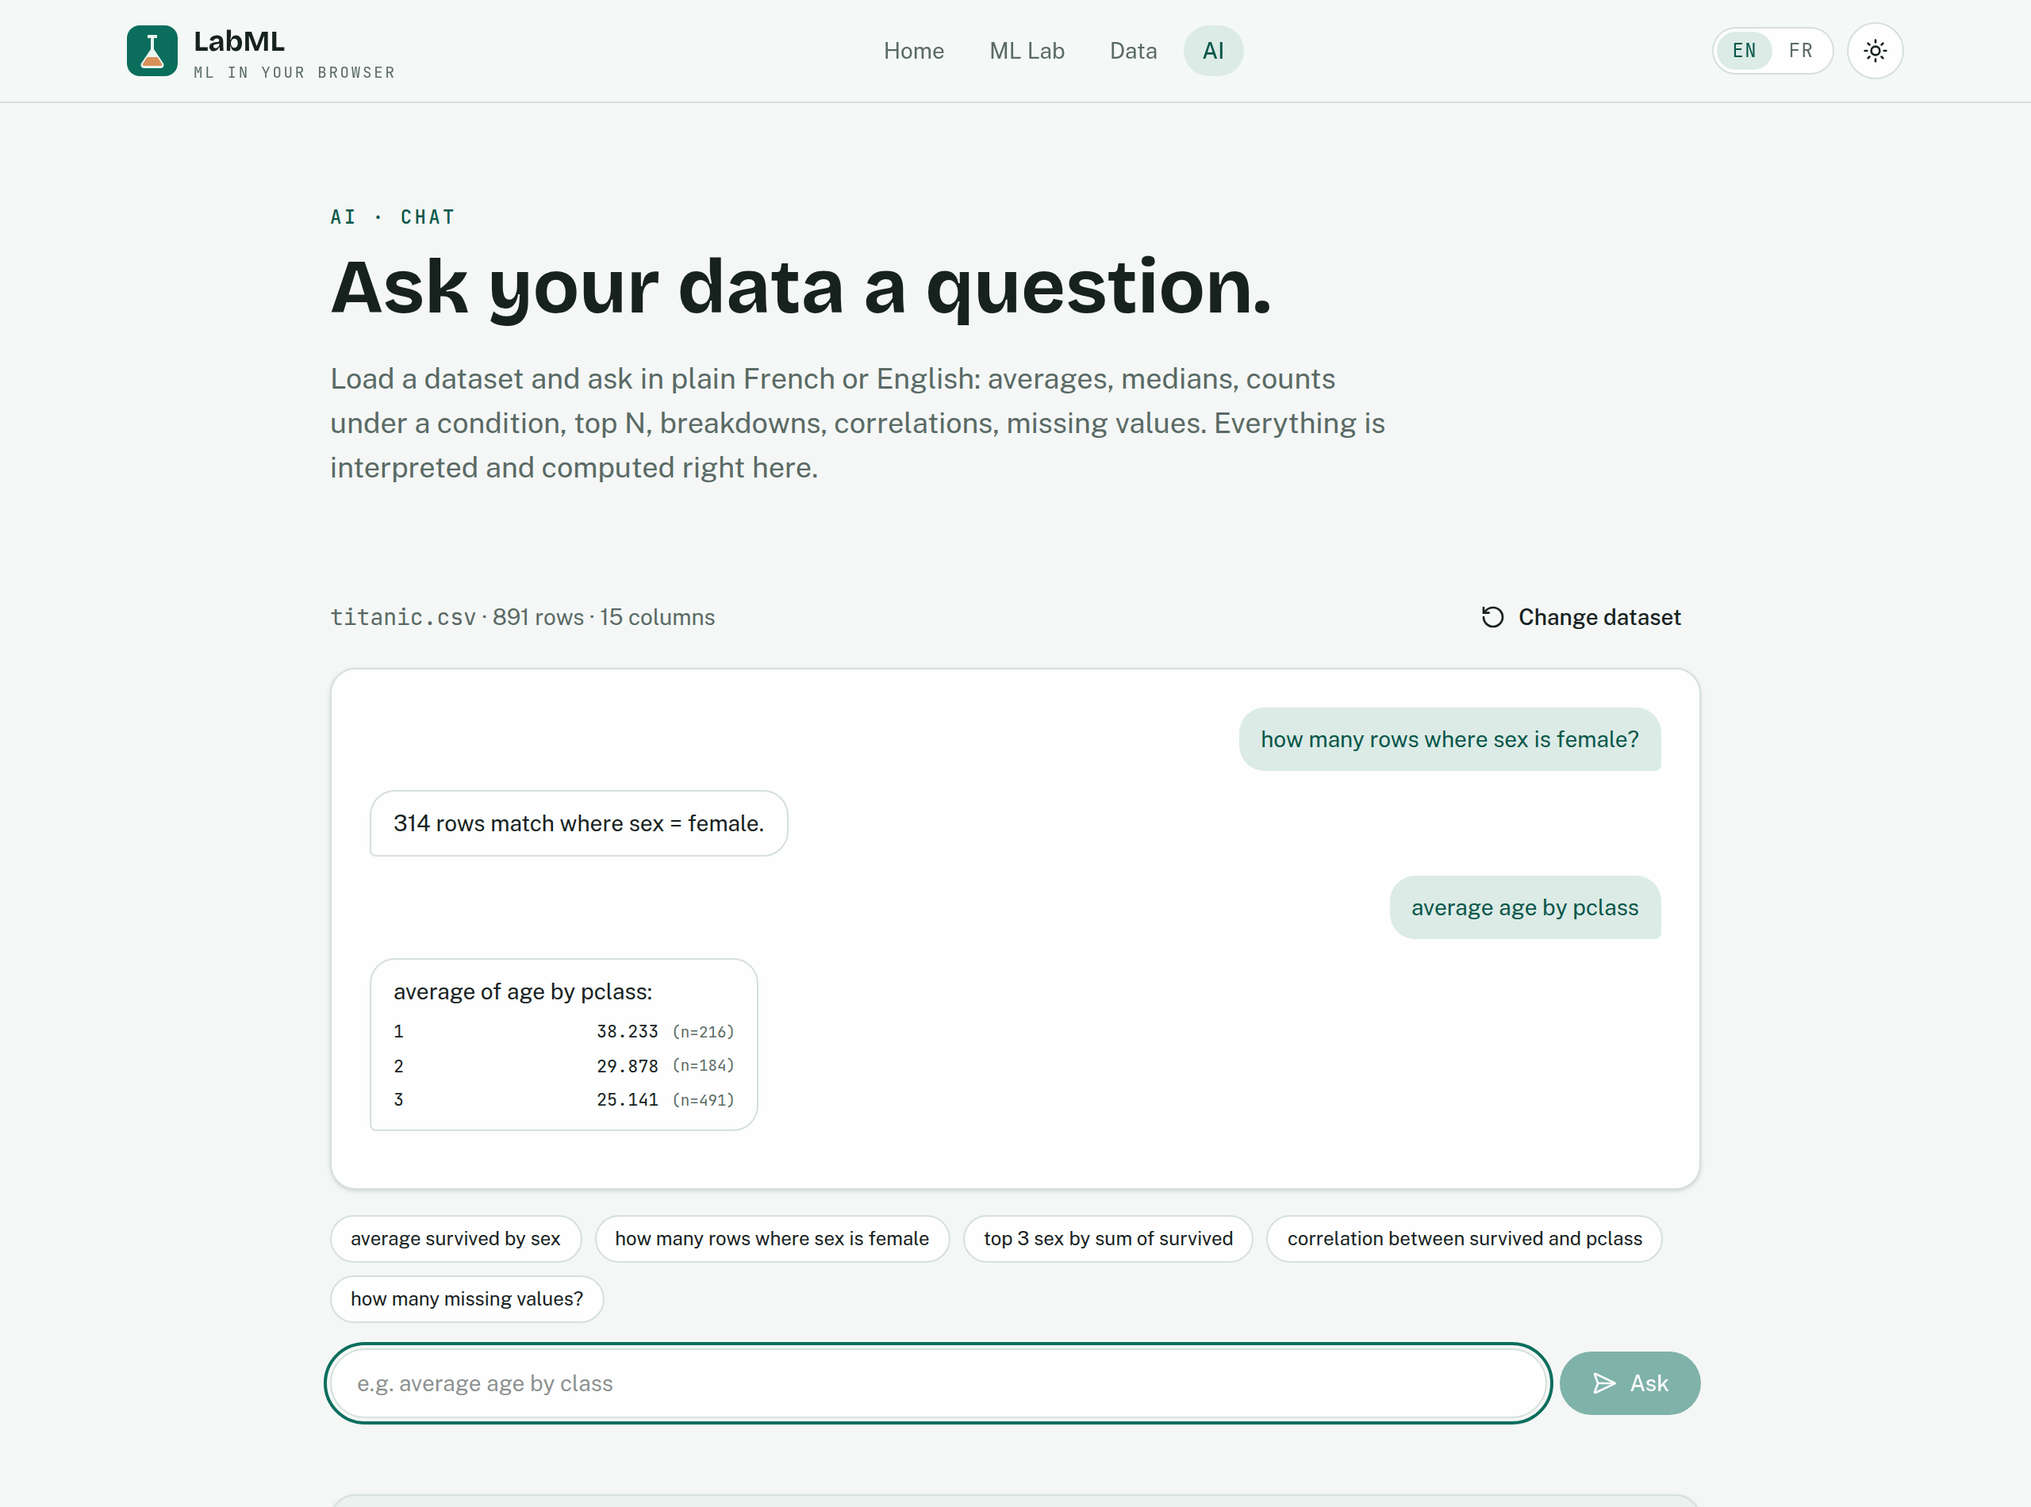
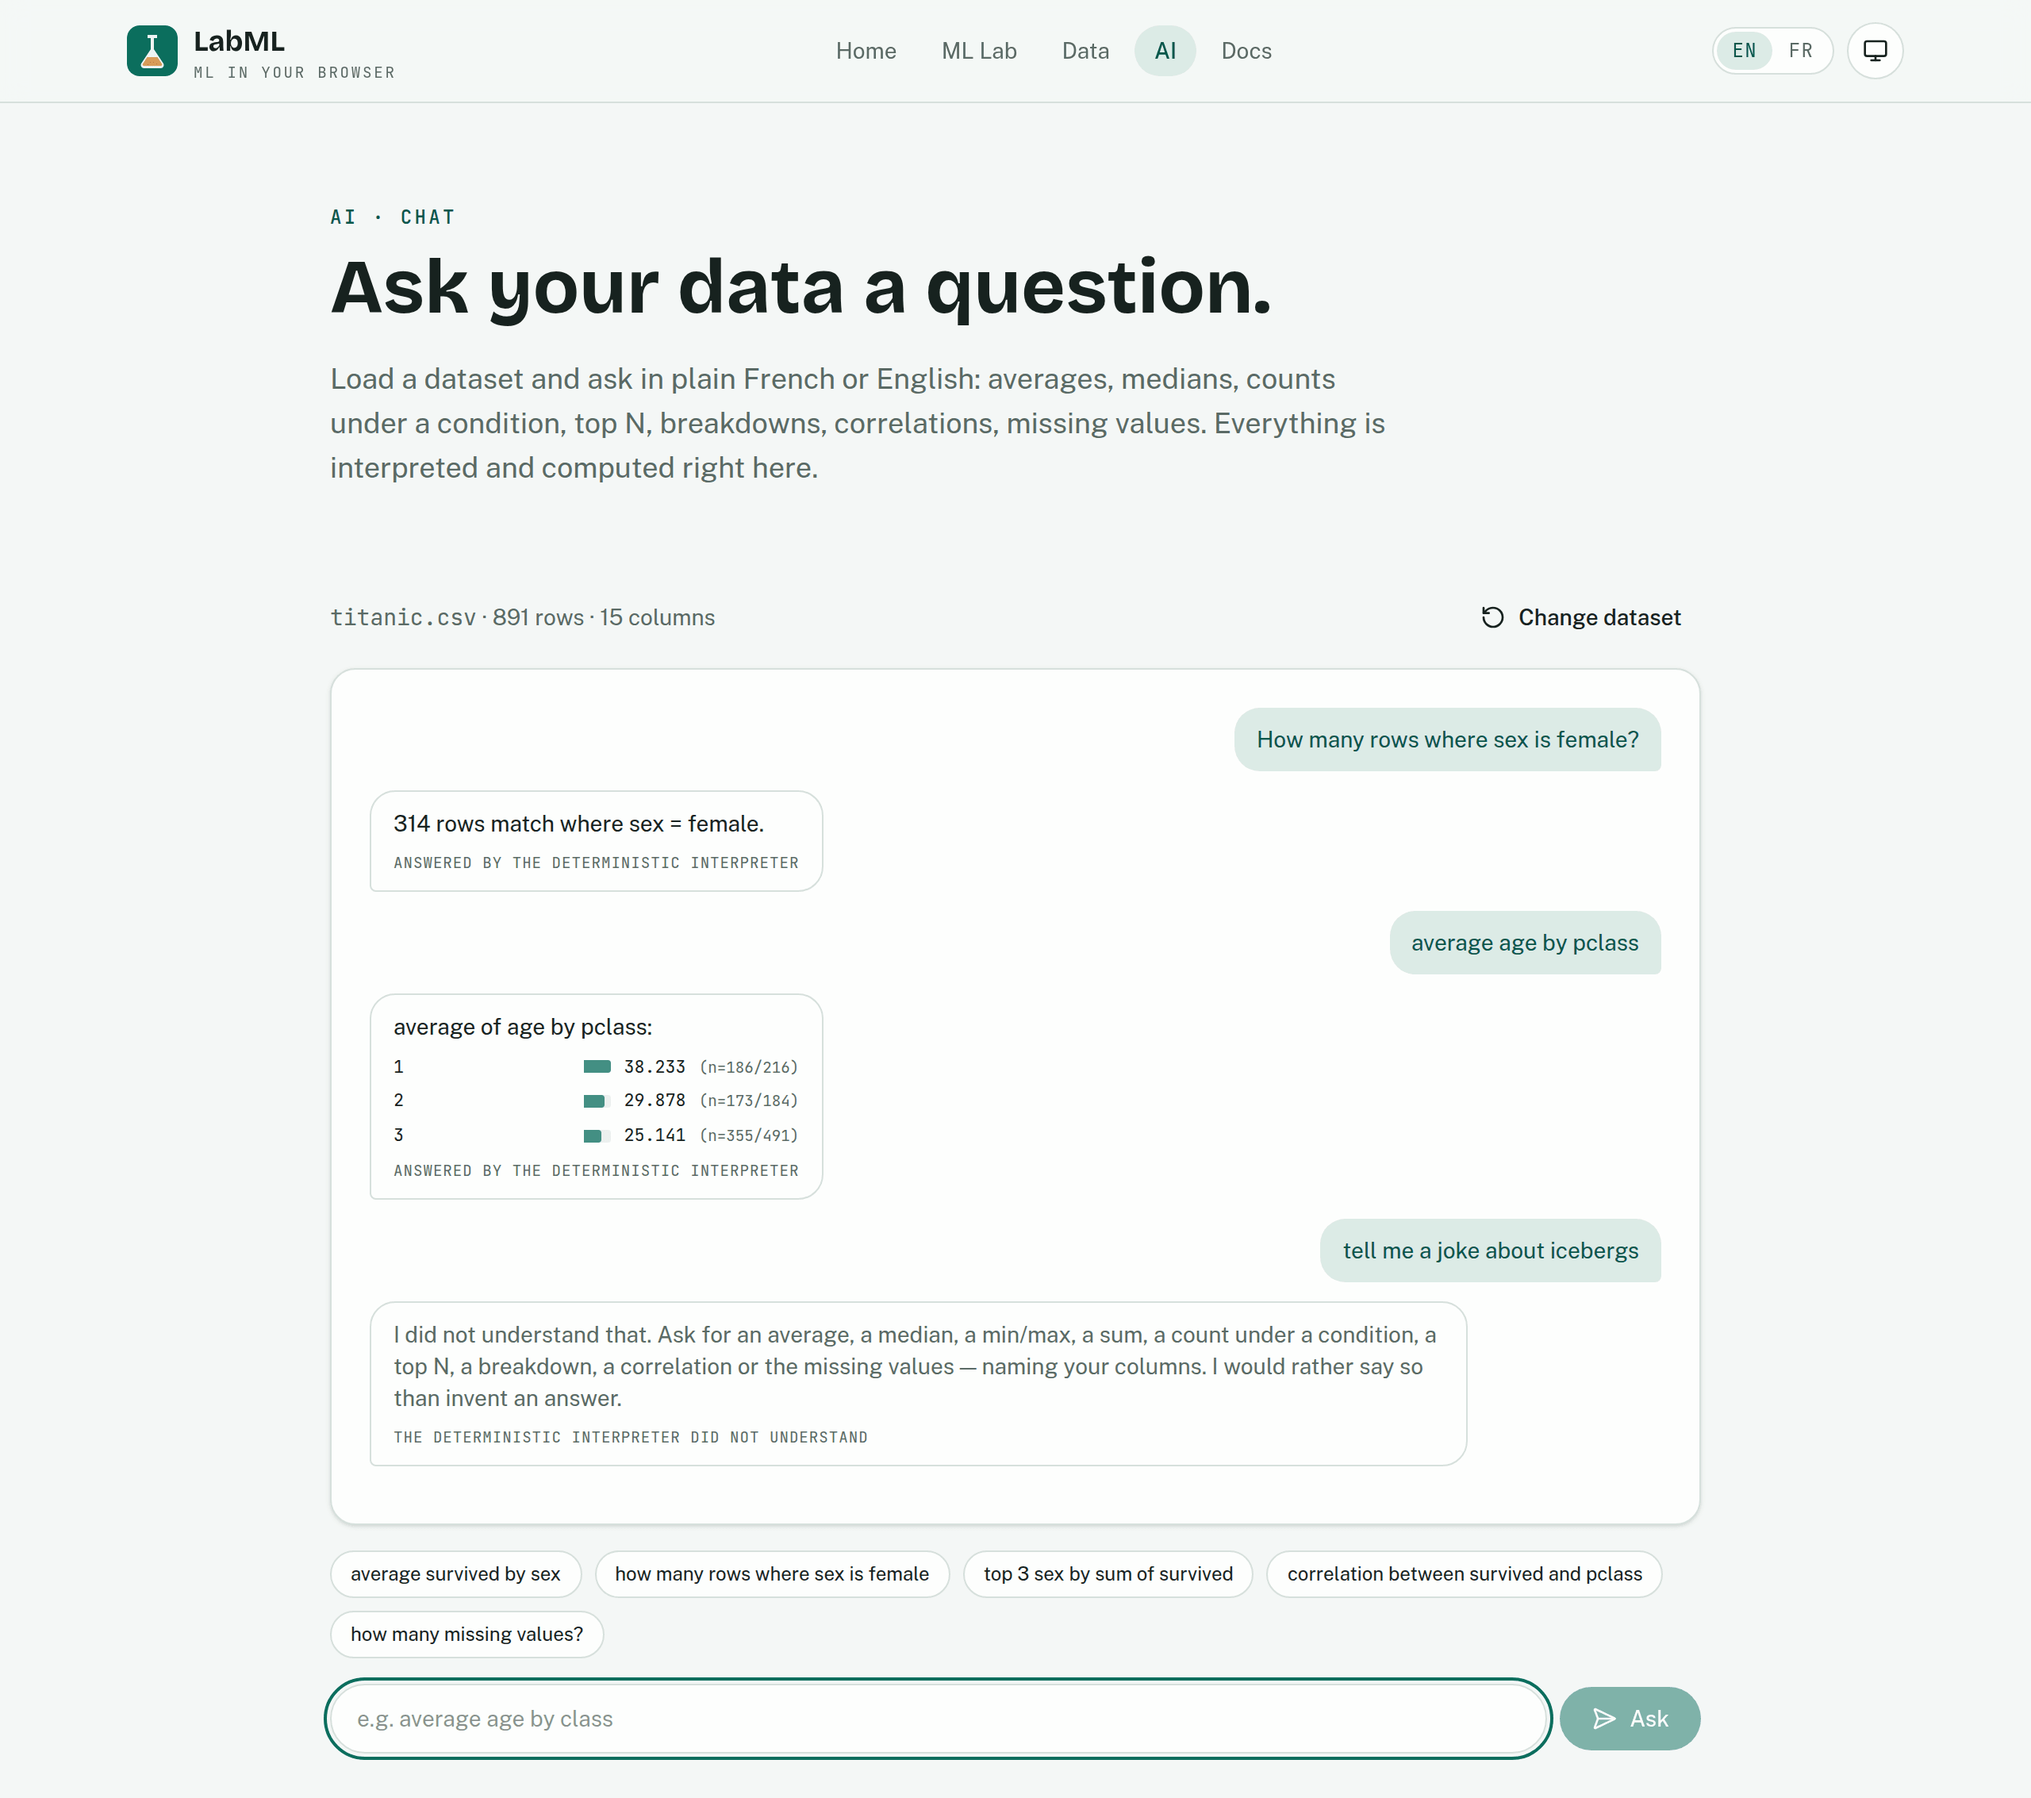
portfolio LabML : la capture du chat montre aussi le refus
Le texte des deux articles insiste sur le refus — « quand il ne comprend
pas, il le dit » — mais la figure ne montrait que deux réponses. Elle montre
maintenant les trois tours : le comptage, la moyenne par classe, et la
demande de blague que l'interpréteur refuse.

Deux choses en profitent au passage, parce que la capture date d'avant :
chaque réponse porte désormais le badge du moteur qui l'a produite, et le
refus porte le sien — « l'interpréteur déterministe n'a pas compris » —
qui ne prétend pas être une réponse.

Remplacement, pas ajout : l'article garde neuf figures et sa vidéo. Les
fichiers sont même plus légers qu'avant malgré une image plus haute
(220→110 Ko en anglais, 238→119 Ko en français), en PNG à palette : ce
sont des captures d'interface, sans photographie.

Les attributs width/height suivent les nouvelles dimensions (1280×1133 et
1280×1181 en pixels CSS, rendus à 2x), sans quoi la place réservée au
chargement serait fausse.

diff --git a/_portfolio/labml-le-ml-dans-votre-navigateur.md b/_portfolio/labml-le-ml-dans-votre-navigateur.md
@@ -187,8 +187,8 @@ Deux expériences d'IA sur l'appareil, mêmes règles de confidentialité :
 </figure>
 
 <figure style="margin: 2rem 0; text-align: center;">
-  <img src="/assets/img/labml/ai-chat-fr.png" alt="Assistant de données de LabML répondant à des questions en langage courant sur titanic : comptage des lignes où sex = female et moyenne d'âge par classe, calculés par un interpréteur local déterministe" width="1280" height="950" loading="lazy" style="width: 100%; height: auto; border-radius: 12px;" />
-  <figcaption style="font-size: 0.85rem; color: var(--faint); margin-top: 0.6rem;">« Combien de lignes où sex est female ? » — 314, comptées localement par l'interpréteur déterministe qui lit chaque question en premier ; un modèle de langue local peut être activé, sur consentement explicite, pour rattraper les formulations qu'il abandonne.</figcaption>
+  <img src="/assets/img/labml/ai-chat-fr.png" alt="Assistant de données de LabML sur titanic : un comptage des lignes où sex = female et une moyenne d'âge par classe, chacun signé « répondu par l'interpréteur déterministe », puis une question sur les icebergs qu'il refuse au lieu d'y répondre" width="1280" height="1181" loading="lazy" style="width: 100%; height: auto; border-radius: 12px;" />
+  <figcaption style="font-size: 0.85rem; color: var(--faint); margin-top: 0.6rem;">Trois questions, et c'est la troisième qui compte : 314 lignes comptées, une moyenne par classe calculée — chacune signée du moteur qui l'a produite — puis une demande de blague que l'interpréteur refuse tout simplement. « Je préfère le dire plutôt que d'inventer une réponse » n'est pas un message de repli : c'est le parti pris.</figcaption>
 </figure>
 
 ## Sous le capot

diff --git a/_portfolio/labml-ml-in-your-browser.md b/_portfolio/labml-ml-in-your-browser.md
@@ -176,8 +176,8 @@ Two smaller experiments in on-device AI, same privacy rules:
 </figure>
 
 <figure style="margin: 2rem 0; text-align: center;">
-  <img src="/assets/img/labml/ai-chat-en.png" alt="LabML data assistant answering plain-language questions on titanic: a row count for sex = female and average age by passenger class, computed by a local deterministic interpreter" width="1280" height="950" loading="lazy" style="width: 100%; height: auto; border-radius: 12px;" />
-  <figcaption style="font-size: 0.85rem; color: var(--faint); margin-top: 0.6rem;">"How many rows where sex is female?" — 314, counted locally by the deterministic interpreter that reads every question first; a local language model can be enabled, on explicit consent, to rescue the phrasings it gives up on.</figcaption>
+  <img src="/assets/img/labml/ai-chat-en.png" alt="LabML data assistant on titanic: a row count for sex = female and an average age by passenger class, each badged as answered by the deterministic interpreter, then a question about icebergs it refuses rather than answers" width="1280" height="1133" loading="lazy" style="width: 100%; height: auto; border-radius: 12px;" />
+  <figcaption style="font-size: 0.85rem; color: var(--faint); margin-top: 0.6rem;">Three questions, and the third is the one that matters: 314 rows counted, an average per class computed — each with the engine that produced it named underneath — and then a joke request the interpreter simply refuses. "I would rather say so than invent an answer" is not a fallback message; it is the design.</figcaption>
 </figure>
 
 ## Under the hood
